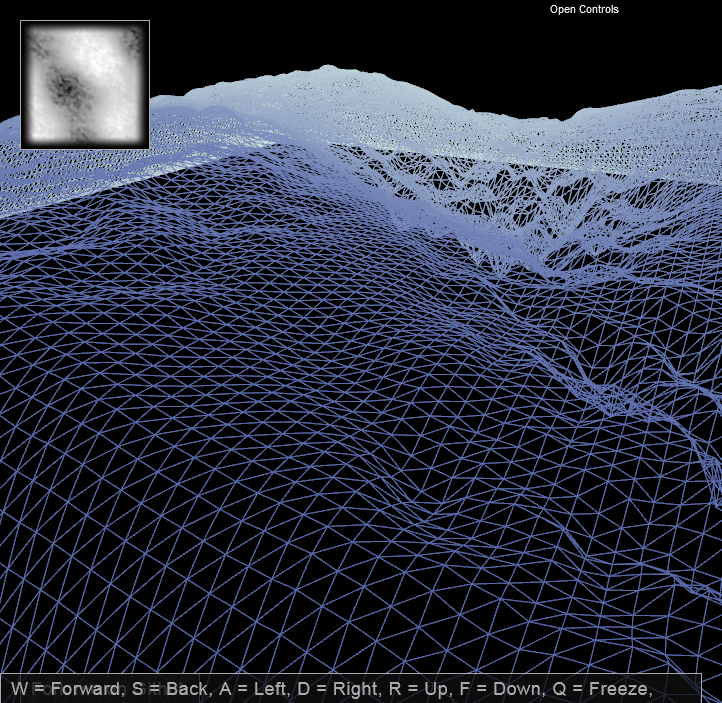
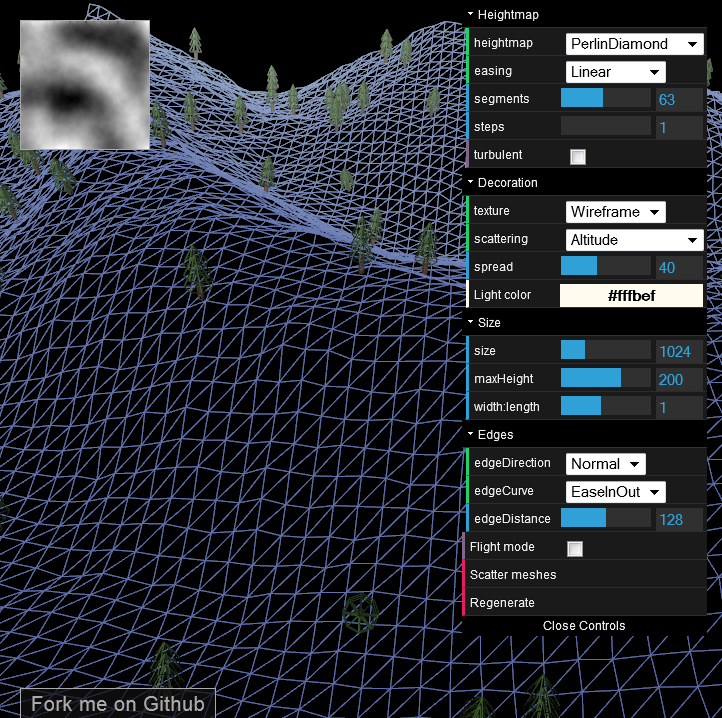
Fixed broken screenshots

diff --git a/demo/index.js b/demo/index.js
@@ -196,6 +196,9 @@ function setupDatGui() {
       return false;
     };
     var mesh = buildTree();
+    var decoMat = mesh.material.clone(); // new THREE.MeshBasicMaterial({color: 0x229966, wireframe: true});
+    decoMat.materials[0].wireframe = true;
+    decoMat.materials[1].wireframe = true;
     this['Scatter meshes'] = function() {
       var s = parseInt(that.segments, 10);
       var geo = terrainScene.children[0].geometry;
@@ -212,6 +215,9 @@ function setupDatGui() {
         randomness: that.scattering === 'Linear' ? Math.random : (that.scattering === 'Altitude' ? null : THREE.Terrain.ScatterHelper(THREE.Terrain[that.scattering], o, 2, 0.125)),
       });
       if (decoScene) {
+        if (that.texture == 'Wireframe') {
+          decoScene.children[0].material = decoMat;
+        }
         terrainScene.add(decoScene);
       }
     };

diff --git a/README.md b/README.md
@@ -48,5 +48,5 @@ All parameters are optional and thoroughly documented in the
 You can play around with some of the parameters and see what happens in the
 [demo](https://icecreamyou.github.io/THREE.Terrain/).
 
-![Screenshot 1](https://raw.githubusercontent.com/IceCreamYou/THREE.Terrain/gh-pages/img/screenshot1.jpg)
-![Screenshot 2](https://raw.githubusercontent.com/IceCreamYou/THREE.Terrain/gh-pages/img/screenshot2.png)
+![Screenshot 1](https://raw.githubusercontent.com/IceCreamYou/THREE.Terrain/gh-pages/demo/img/screenshot1.jpg)
+![Screenshot 2](https://raw.githubusercontent.com/IceCreamYou/THREE.Terrain/gh-pages/demo/img/screenshot2.png)
